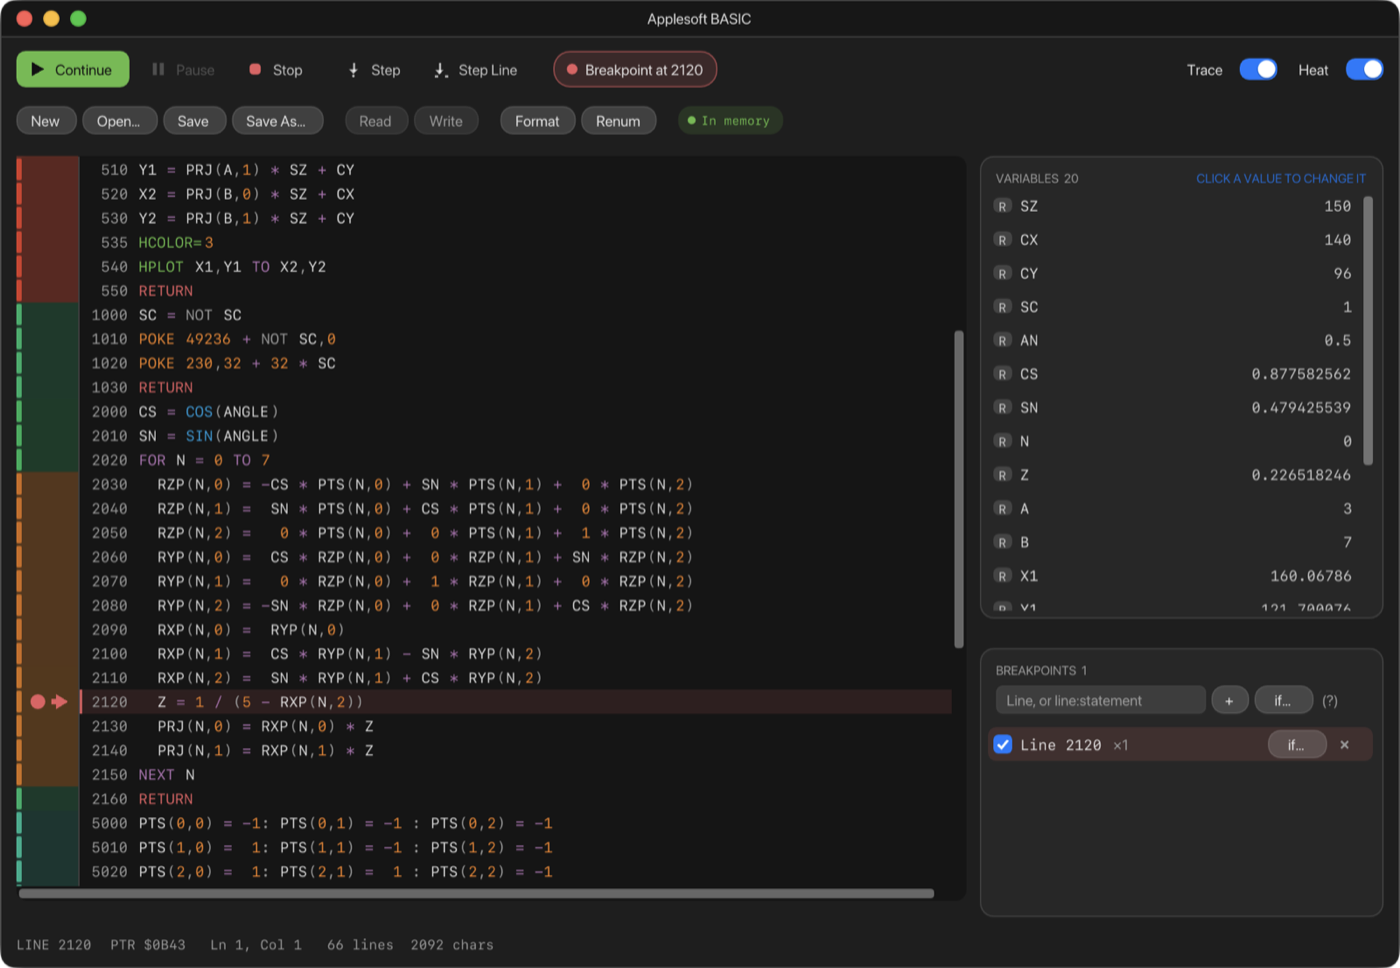
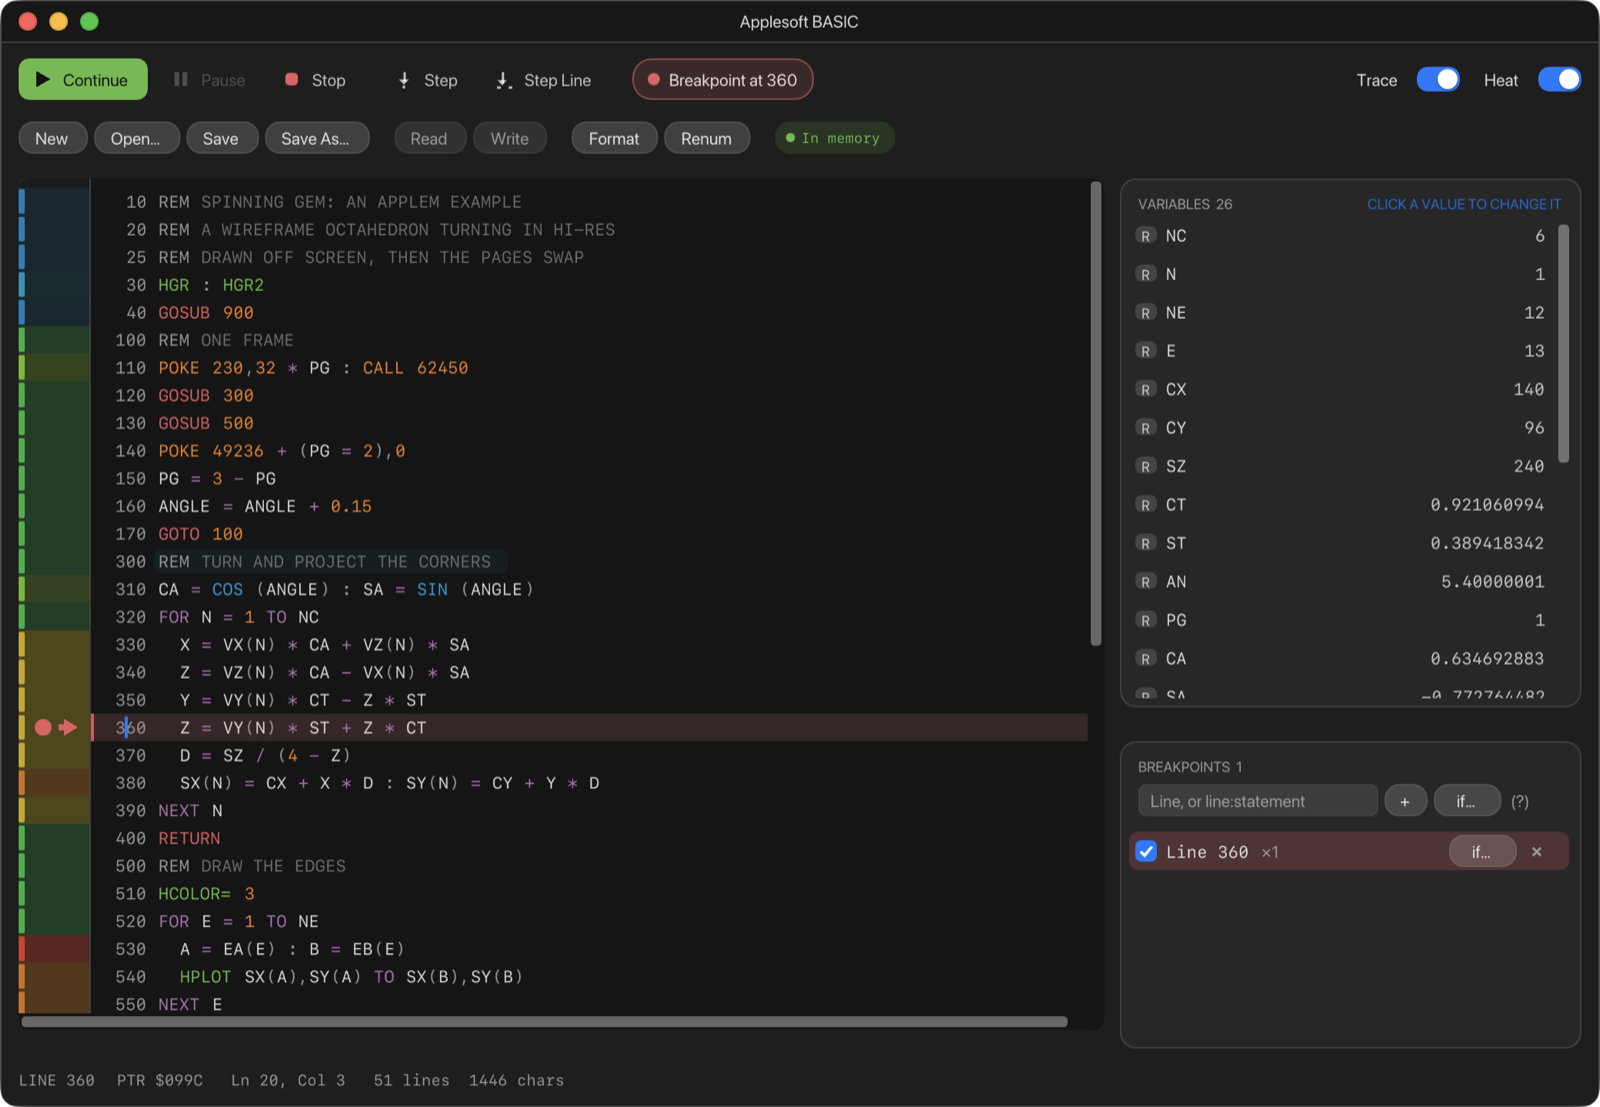
Replace cube.bas with an original example, and send readers to GitHub for the examples
examples/gem.bas, written for ApplEm, takes the place of cube.bas: a
wireframe octahedron turning in hi-res, drawn on the hidden page and then
shown. The BASIC chapter's screenshots and its breakpoint example follow it.

The guide now says where the examples are for someone who has only the app:
the repository on GitHub, with how to download them all or one file.

diff --git a/docs/guide/14-applesoft-basic.md b/docs/guide/14-applesoft-basic.md
@@ -6,7 +6,7 @@ the machine and run it, then stop it at a line, step through it statement by
 statement and watch its variables change. Open it with **Debug › Applesoft
 BASIC** (⇧⌘B). It works on the II Plus, //e and //c; the IIgs doesn't offer it.
 
-![The BASIC window running cube.bas, with Trace and Heat on](images/basic-running.png)
+![The BASIC window running gem.bas, with Trace and Heat on](images/basic-running.png)
 
 ## A first program
 
@@ -26,11 +26,12 @@ ApplEm puts the program into the machine's memory and types `RUN`. The
 output appears on the screen, and the **VARIABLES** list on the right shows
 `I` counting up.
 
-To try a bigger program, click **Open…** and choose
-[`examples/cube.bas`](../../examples/cube.bas), a rotating 3D cube in
-hi-res, then press ⌘R.
+To try a bigger program, download
+[`gem.bas`](../../examples/gem.bas), a wireframe gem turning in hi-res, from
+the [examples](README.md#the-examples) on GitHub. Click **Open…**, choose it, then press
+⌘R.
 
-![cube.bas running](images/screen-cube.png)
+![gem.bas running](images/screen-gem.png)
 
 ## The toolbar
 
@@ -123,10 +124,10 @@ Applesoft would read it. That is a warning, not a mistake in the colouring.
 - Or type a line number, or `line:statement`, in the **BREAKPOINTS** field
   and click **+**.
 
-![Stopped at a breakpoint on line 2120](images/basic-breakpoint.png)
+![Stopped at a breakpoint on line 360](images/basic-breakpoint.png)
 
 When the program stops, the line is highlighted and the pill shows
-**Breakpoint at 2120**. **Continue**, **Step** and **Step Line** carry on
+**Breakpoint at 360**. **Continue**, **Step** and **Step Line** carry on
 from there.
 
 Each breakpoint in the **BREAKPOINTS** list has a checkbox to turn it on and

diff --git a/docs/guide/README.md b/docs/guide/README.md
@@ -71,7 +71,12 @@ what you're looking for in the Help menu's search field.
 - Notes for programmers who already know the Apple II well are marked
   **For the experienced**. You can skip them on a first read.
 
-The programs used in the tutorials are in the repository's
-[`examples`](../../examples) folder: `hello-asm` and `hello-c` for the Build
-tutorials, `profiler-demo` for the Profiler, and `cube.bas` for the BASIC
-editor.
+## The examples
+
+The programs used in the tutorials are in the
+[`examples`](../../examples) folder of ApplEm's repository on GitHub:
+`hello-asm` and `hello-c` for the Build tutorials, `profiler-demo` for the
+Profiler, and `gem.bas` for the BASIC editor. To get them all, open the
+[repository's page](https://github.com/mikedaley/applem), click **Code** and
+choose **Download ZIP**; the `examples` folder is inside. To get one file,
+open it on GitHub and click the **Download raw file** button above it.

diff --git a/docs/guide/09-developing.md b/docs/guide/09-developing.md
@@ -67,8 +67,8 @@ When you press **⌘B** (**Develop › Build and Run**), ApplEm:
 ## Tutorial 1: Hello world in assembly
 
 This tutorial uses the project in
-[`examples/hello-asm`](../../examples/hello-asm). To follow along from
-nothing, make a new folder and create the three files below in it.
+[`examples/hello-asm`](../../examples/hello-asm), one of the
+[examples](README.md#the-examples) on GitHub. To follow along from nothing, make a new folder and create the three files below in it.
 
 **`hello.s`**, the program:
 
